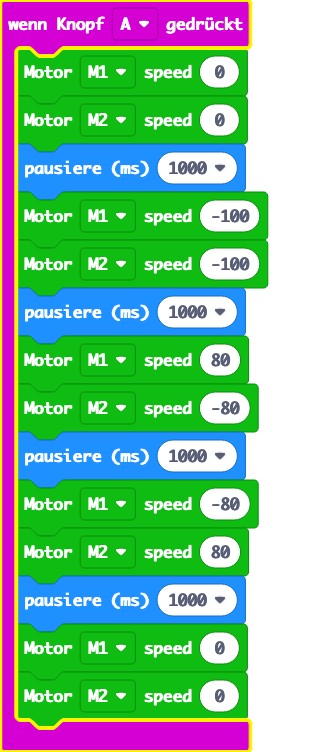
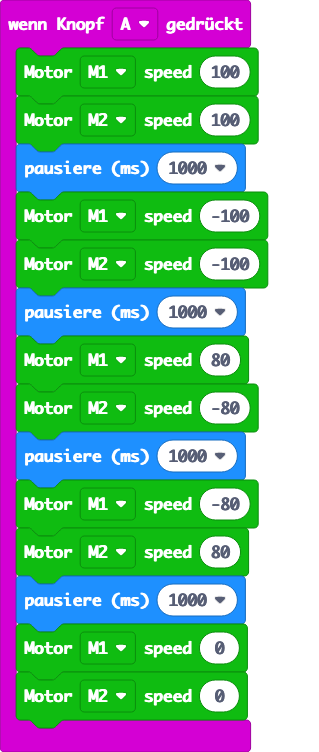
Aktualisiere main.blocks, main.ts

Changed region(s): [[0.0, 0.0, 0.8182, 1.0]]

diff --git a/main.ts b/main.ts
@@ -1,6 +1,6 @@
 input.onButtonPressed(Button.A, function () {
-    AlphaBot2.MotorRun(Motors.M1, 0)
-    AlphaBot2.MotorRun(Motors.M2, 0)
+    AlphaBot2.MotorRun(Motors.M1, 100)
+    AlphaBot2.MotorRun(Motors.M2, 100)
     basic.pause(1000)
     AlphaBot2.MotorRun(Motors.M1, -100)
     AlphaBot2.MotorRun(Motors.M2, -100)
